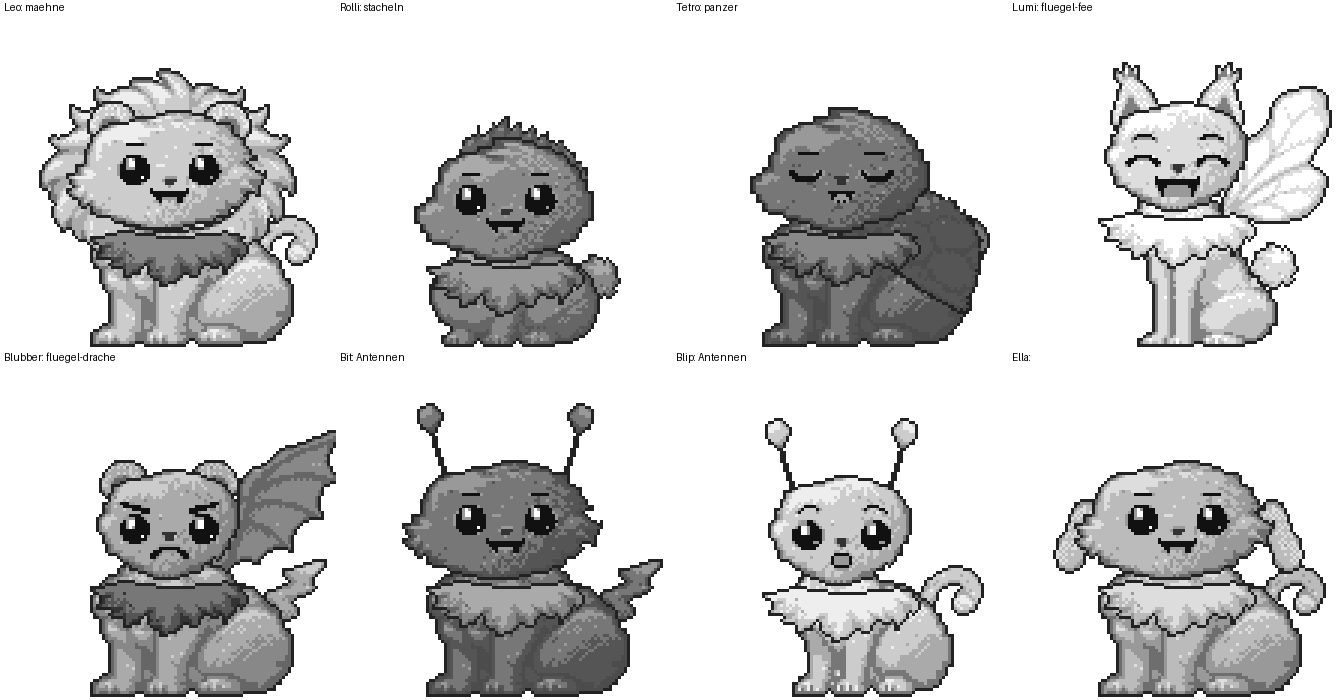
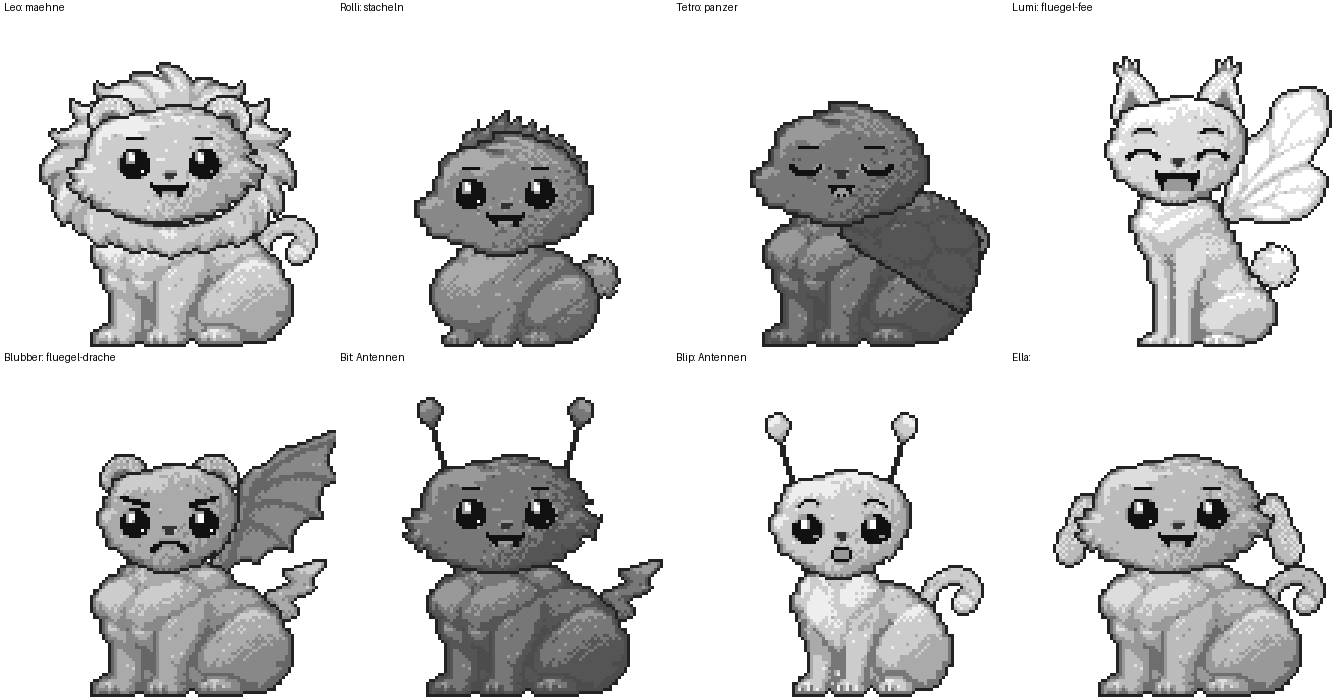
Bausatz: Halskrause komplett entfernt, Kopf sitzt direkt am Koerperhals
Claude-Session: https://claude.ai/code/session_01X43J6dzQtUUHUsjwp3UbdM

diff --git a/entwuerfe/bausatz-test/basis3.py b/entwuerfe/bausatz-test/basis3.py
@@ -1,5 +1,5 @@
 #!/usr/bin/env python3
-"""Setzt die 3/4-Basis (Körper, Kopf, Halskrause + Ohren, Schwanz, Gesicht) auf einer 112 x 112 Leinwand zusammen.
+"""Setzt die 3/4-Basis (Körper, Kopf + Ohren, Schwanz, Gesicht) auf einer 112 x 112 Leinwand zusammen.
 Rollen: 34 Umriss, 119 innen, 170 Schatten, 204 Fell, 238 Licht, 255 Hintergrund. Fellton verschiebt Fell/Schatten/Licht.
 Aufruf: python3 basis3.py  ->  pruefbogen-basis3.png
 """
@@ -56,7 +56,7 @@ def muster_maske(art):
         return ((x - 66) / 9) ** 2 + ((y - 46) / 8) ** 2 <= 1, -68
     return None, 0
 
-def baue(koerper=3, kopf=1, kruse=2, ohren=None, schwanz=None, gesicht=None, fell=204, kranz=238, muster=None):
+def baue(koerper=3, kopf=1, ohren=None, schwanz=None, gesicht=None, fell=204, muster=None):
     from ki_teile import lade_teil
     c = Leinwand(); r = rollen(fell)
     if schwanz:
@@ -74,7 +74,6 @@ def baue(koerper=3, kopf=1, kruse=2, ohren=None, schwanz=None, gesicht=None, fel
         m, d = muster_maske(muster)
         ok = m & c.a & (c.g >= 85) & (c.g < 250)
         c.g[ok] = np.clip(np.round((c.g[ok] + d) / 17) * 17, 0, 255)
-    c.teil(lade('kruse', 'flauschig', kruse), (28, 2), L.KRUSE_ZIEL, {34: 34, 238: kranz, 204: kranz - 34, 170: kranz - 68})
     if gesicht:
         t = lade_teil('gesicht', gesicht)
         if t is not None:
@@ -84,10 +83,10 @@ def baue(koerper=3, kopf=1, kruse=2, ohren=None, schwanz=None, gesicht=None, fel
 
 if __name__ == '__main__':
     z = 3
-    kombis = [(k, h, 2) for k in (1, 2, 3) for h in (1, 2, 3)]
+    kombis = [(k, h) for k in (1, 2, 3) for h in (1, 2, 3)]
     out = Image.new('RGB', (3 * W * z, 3 * (H * z + 14)), 'white'); d = ImageDraw.Draw(out)
-    for i, (k, h, kr) in enumerate(kombis):
-        c = baue(k, h, kr, ohren='spitz', schwanz='buschig', gesicht='freundlich')
+    for i, (k, h) in enumerate(kombis):
+        c = baue(k, h, ohren='spitz', schwanz='buschig', gesicht='freundlich')
         x, y = (i % 3) * W * z, (i // 3) * (H * z + 14)
         d.text((x + 4, y + 1), f'Körper {k}, Kopf {h}', fill='black'); out.paste(c.bild(255, z), (x, y + 14))
     out.save(HIER / 'pruefbogen-basis3.png'); print(out.size)
@@ -97,10 +96,9 @@ def bogen_varianten():
     v = [('spitz', 'buschig', 204, 'freundlich'), ('rund', 'puschel', 170, 'lachend'), ('lang', 'duenn', 238, 'ueberrascht'),
          ('haengend', 'puschel', 187, 'traurig'), ('buschel', 'blitz', 221, 'wuetend'), ('spitz', 'duenn', 136, 'muede'),
          ('rund', 'buschig', 255, 'freundlich'), ('lang', 'blitz', 153, 'lachend')]
-    kr = [238, 238, 238, 238, 255, 238, 255, 221]
     out = Image.new('RGB', (4 * W * z, 2 * (H * z + 14)), 'white'); d = ImageDraw.Draw(out)
     for i, (o, s, f, g) in enumerate(v):
-        c = baue(2, 2, 2, ohren=o, schwanz=s, gesicht=g, fell=f, kranz=kr[i])
+        c = baue(2, 2, ohren=o, schwanz=s, gesicht=g, fell=f)
         x, y = (i % 4) * W * z, (i // 4) * (H * z + 14)
         d.text((x + 4, y + 1), f'Ohr {o}, Schwanz {s}, Fell {f}', fill='black'); out.paste(c.bild(255, z), (x, y + 14))
     out.save(HIER / 'pruefbogen-basis3-varianten.png'); print(out.size)

diff --git a/entwuerfe/bausatz-test/formen.py b/entwuerfe/bausatz-test/formen.py
@@ -10,11 +10,9 @@ from basis3 import Leinwand, rollen, muster_maske, W, H, HIER, TEILE, Z
 from ki_teile import lade_teil
 
 BODEN = 110
-KOPF_UEBER_STANDARD = -7     # Kopf-Hals liegt so viele Pixel ÜBER dem Körper-Hals (negativ = darunter)
-KRUSE_TIEFER_STANDARD = 3   # Halskrause sitzt so viele Pixel unter dem Kopf-Hals: der Kopf sitzt am Hals, nicht auf der Krause
+KOPF_UEBER_STANDARD = -5     # Kopf-Hals liegt so viele Pixel ÜBER dem Körper-Hals (negativ = darunter)
 PANZER_WINKEL = 30       # Grad, nach rechts unten gekippt
 PANZER_VERSATZ = (-14, 8)  # Verschiebung gegenüber dem Rückenansatz
-KRUSE_TIEFER = {}
 KOPF_TIEFER = {}   # Platz für kopfspezifische Absenkung (der spitze Kopf wurde am 27.11. entfernt)
 
 def datei(art, form, bevorzugt=None):
@@ -25,12 +23,12 @@ def datei(art, form, bevorzugt=None):
 
 def raster(p): return np.array(Image.open(p).convert('RGB'))[::Z, ::Z, 0]
 
-def baue_form(koerper='sitzend', kopf='3-4', kruse=2, ohren='spitz', schwanz='buschig', gesicht='freundlich',
-              fell=204, kranz=238, muster=None, kopf_ueber=None, merkmale=(), kruse_tiefer=None, kruse_hinten=True):
+def baue_form(koerper='sitzend', kopf='3-4', ohren='spitz', schwanz='buschig', gesicht='freundlich',
+              fell=204, muster=None, kopf_ueber=None, merkmale=()):
     kf, hf = L.KOERPER_FORMEN[koerper], L.KOPF_FORMEN[kopf]
     khx, khy = hf['hals']
     if kopf_ueber is None:
-        kopf_ueber = KOPF_UEBER_STANDARD - KOPF_TIEFER.get(kopf, 0)   # negativ: Kopf sitzt im Körperhals, Kinn berührt die Krause
+        kopf_ueber = KOPF_UEBER_STANDARD - KOPF_TIEFER.get(kopf, 0)   # negativ: Kopf sitzt im Körperhals
     gw, gh = kf['groesse']; hx, hy = kf['hals']
     zx, zy = 56, BODEN - (gh - 1) + hy                  # Körper-Hals auf der Leinwand
     kx, ky = 56, zy - kopf_ueber                         # Kopf-Hals
@@ -108,16 +106,11 @@ def baue_form(koerper='sitzend', kopf='3-4', kruse=2, ohren='spitz', schwanz='bu
                 ol = (hf['ohr_l'][0] - khx, hf['ohr_l'][1] - khy); orr = (hf['ohr_r'][0] - khx, hf['ohr_r'][1] - khy)
             c.teil(t[0], t[1], (kx + ol[0], ky + ol[1]), r)
             c.teil(t[0], t[1], (W - 1 - (kx + orr[0]), ky + orr[1]), r, spiegeln=True)
-    if kruse_tiefer is None: kruse_tiefer = KRUSE_TIEFER.get(kopf, KRUSE_TIEFER_STANDARD)
-    def zeichne_kruse():
-        c.teil(raster(TEILE / f'kruse-flauschig-{kruse}.png'), (28, 2), (kx, ky + kruse_tiefer), {34: 34, 238: kranz, 204: kranz - 34, 170: kranz - 68})
-    if kruse_hinten: zeichne_kruse()                                                # Krause hinter dem Kinn: der Kopf sitzt am Hals
     c.teil(raster(datei('kopf', kopf)), (khx, khy), (kx, ky), r)
     if muster:
         m, d = muster_maske(muster)
         ok = m & c.a & (c.g >= 85) & (c.g < 250)
         c.g[ok] = np.clip(np.round((c.g[ok] + d) / 17) * 17, 0, 255)
-    if not kruse_hinten: zeichne_kruse()
     if gesicht:
         t = lade_teil('gesicht', gesicht)
         if t is not None:

diff --git a/entwuerfe/bausatz-test/basis3_layout.py b/entwuerfe/bausatz-test/basis3_layout.py
@@ -1,14 +1,13 @@
 """Anordnung der 3/4-Basis auf der Leinwand 112 x 112 (alle Angaben in Rasterpixeln).
 
 Jedes Teil hat in seiner Schablone rote/blaue/grüne Ansatzpunkte. Hier steht, wohin sie auf der Leinwand kommen.
-Reihenfolge von hinten nach vorn: Schwanz, Körper, Kopf (Ohren hinter dem Kopf), Halskrause, Gesicht.
+Reihenfolge von hinten nach vorn: Schwanz, Körper, Kopf (Ohren hinter dem Kopf), Gesicht.
 """
 LEINWAND = (112, 112)
 
 # Teil: (Größe, Ansatzpunkte im Teil)  ->  Ziel auf der Leinwand
 KOERPER_ZIEL = (56, 66)        # Hals des Körpers auf der Leinwand (Körper reicht von x 16 bis 95, y 63 bis 110)
-KOPF_ZIEL = (56, 62)           # Hals des Kopfes (Kopf reicht von x 26 bis 85, y 22 bis 65)
-KRUSE_ZIEL = (56, 62)          # Oberkante Halskrause sitzt am Hals
+KOPF_ZIEL = (56, 71)           # Hals des Kopfes (Kopf reicht von x 26 bis 85, y 22 bis 65)
 SCHWANZ_ZIEL = (82, 89)        # Schwanz-Ansatz des Körpers (66, 26) -> Leinwand (82, 89); Schwanzteil-Ansatz (3, 29)
 OHR_LINKS_ZIEL = (39, 30)      # Kopf-Ansatz (13, 8) -> Leinwand
 OHR_RECHTS_ZIEL = (73, 30)     # Kopf-Ansatz (47, 8) -> Leinwand
@@ -26,11 +25,11 @@ KOPF_SEITE_RECHTS = (26, -24)
 KOPF_GESICHT = (0, -16)
 POSEN = {
     #  Teilname          Größe     Hals     Schwanz   Hals-Ziel auf der Leinwand  Kopf-Hals-Ziel
-    'sitzend':    dict(groesse=(80, 48), hals=(40, 3),  schwanz=(66, 26), hals_ziel=(56, 66), kopf_ziel=(56, 62)),
-    'laufen':     dict(groesse=(88, 48), hals=(22, 8),  schwanz=(76, 14), hals_ziel=(30, 70), kopf_ziel=(30, 66)),
-    'huepfen':    dict(groesse=(80, 52), hals=(30, 8),  schwanz=(68, 18), hals_ziel=(40, 62), kopf_ziel=(40, 56)),
-    'geduckt':    dict(groesse=(88, 44), hals=(14, 22), schwanz=(78, 8),  hals_ziel=(30, 76), kopf_ziel=(30, 72), schwanz_dx=-10),
-    'eingerollt': dict(groesse=(88, 40), hals=(24, 10), schwanz=(66, 18), hals_ziel=(36, 78), kopf_ziel=(36, 74)),
+    'sitzend':    dict(groesse=(80, 48), hals=(40, 3),  schwanz=(66, 26), hals_ziel=(56, 66), kopf_ziel=(56, 71)),
+    'laufen':     dict(groesse=(88, 48), hals=(22, 8),  schwanz=(76, 14), hals_ziel=(30, 70), kopf_ziel=(30, 75)),
+    'huepfen':    dict(groesse=(80, 52), hals=(30, 8),  schwanz=(68, 18), hals_ziel=(40, 62), kopf_ziel=(40, 65)),
+    'geduckt':    dict(groesse=(88, 44), hals=(14, 22), schwanz=(78, 8),  hals_ziel=(30, 76), kopf_ziel=(30, 81), schwanz_dx=-10),
+    'eingerollt': dict(groesse=(88, 40), hals=(24, 10), schwanz=(66, 18), hals_ziel=(36, 78), kopf_ziel=(36, 83)),
 }
 
 # Formen (sitzend). Platzierung: Boden bei y = 110, Körper-Hals mittig bei x = 56.

diff --git a/entwuerfe/bausatz-test/posen3.py b/entwuerfe/bausatz-test/posen3.py
@@ -18,7 +18,7 @@ def koerper_datei(pose, nr=None):
     if pose == 'sitzend': return TEILE / 'koerper-sitzend-2.png'
     return dateien[0] if dateien else None
 
-def baue_pose(pose='sitzend', kopf=2, kruse=2, ohren='spitz', schwanz='buschig', gesicht='freundlich', fell=204, kranz=238, muster=None, nr=None):
+def baue_pose(pose='sitzend', kopf=2, ohren='spitz', schwanz='buschig', gesicht='freundlich', fell=204, muster=None, nr=None):
     p = L.POSEN[pose]
     c = Leinwand(); r = rollen(fell)
     hx, hy = p['hals']; zx, zy = p['hals_ziel']
@@ -42,7 +42,6 @@ def baue_pose(pose='sitzend', kopf=2, kruse=2, ohren='spitz', schwanz='buschig',
         m, d = __import__('basis3').muster_maske(muster)
         ok = m & c.a & (c.g >= 85) & (c.g < 250)
         c.g[ok] = np.clip(np.round((c.g[ok] + d) / 17) * 17, 0, 255)
-    c.teil(lade('kruse', 'flauschig', kruse), (28, 2), (kx, ky), {34: 34, 238: kranz, 204: kranz - 34, 170: kranz - 68})
     if gesicht:
         t = lade_teil('gesicht', gesicht)
         if t is not None:
@@ -56,7 +55,7 @@ if __name__ == '__main__':
     out = Image.new('RGB', (len(POSEN) * W * z, len(FIGUREN) * (H * z + 14)), 'white'); d = ImageDraw.Draw(out)
     for j, (o, s, f, kz, m) in enumerate(FIGUREN):
         for i, (pose, g) in enumerate(POSEN):
-            c = baue_pose(pose, ohren=o, schwanz=s, gesicht=g, fell=f, kranz=kz, muster=m)
+            c = baue_pose(pose, ohren=o, schwanz=s, gesicht=g, fell=f, muster=m)
             if pose == 'eingerollt': emotionen3.zzz(c)
             x, y = i * W * z, j * (H * z + 14)
             d.text((x + 4, y + 1), pose, fill='black'); out.paste(c.bild(255, z), (x, y + 14))

diff --git a/entwuerfe/bausatz-test/aufstellung.py b/entwuerfe/bausatz-test/aufstellung.py
@@ -4,7 +4,7 @@ from PIL import Image, ImageDraw
 from basis3 import W, H, HIER
 from formen import baue_form
 
-# name: (körper, kopf, krause, ohren, schwanz, gesicht, fell, kranz, muster, fehlt)
+# name: (körper, kopf, [unbenutzt], ohren, schwanz, gesicht, fell, [unbenutzt], muster, fehlt)  (Halskrause entfernt)
 F = {
  'Evi':      (2, 2, 2, 'spitz', 'buschig', 'freundlich', 187, 238, None, ''),
  'Lotti':    (1, 1, 1, 'spitz', 'puschel', 'freundlich', 170, 255, 'tupfen', 'Rehohren, Stummelschwanz'),
@@ -42,7 +42,7 @@ if __name__ == '__main__':
     out = Image.new('RGB', (cols * W * z, rows * (H * z + 30)), 'white'); d = ImageDraw.Draw(out)
     for i, (n, (k, h, kr, o, s, g, f, kz, m, fehlt)) in enumerate(F.items()):
         kf, hf = FORMEN[n]
-        c = baue_form(kf, hf, kr, ohren=o, schwanz=s, gesicht=g, fell=f, kranz=kz, muster=m)
+        c = baue_form(kf, hf, ohren=o, schwanz=s, gesicht=g, fell=f, muster=m)
         x, y = (i % cols) * W * z, (i // cols) * (H * z + 30)
         d.text((x + 4, y + 1), f'{n}  ({kf} / {hf})', fill='black')
         if fehlt: d.text((x + 4, y + 13), 'fehlt: ' + fehlt, fill=(160, 0, 0))

diff --git a/entwuerfe/bausatz-test/schablonen_basis.py b/entwuerfe/bausatz-test/schablonen_basis.py
@@ -1,5 +1,5 @@
 #!/usr/bin/env python3
-"""Schablonen für Körper, Kopf und Halskrause (3/4-Basis, Leinwand 112 x 112)."""
+"""Schablonen für Körper und Kopf (3/4-Basis, Leinwand 112 x 112)."""
 from PIL import Image, ImageDraw
 import os
 hier = os.path.dirname(os.path.abspath(__file__))
@@ -31,7 +31,6 @@ def schablone(name, gw, gh, anker, text, fuehrung=None):
 ROT, BLAU, GRUEN = (220, 0, 0), (0, 90, 220), (0, 150, 60)
 schablone('schablone-koerper.png', 80, 48, [((40, 3), 'Hals', ROT), ((66, 26), 'Schwanz', BLAU)], 'Koerper 80x48')
 schablone('schablone-kopf.png', 60, 44, [((30, 40), 'Hals', ROT), ((13, 8), 'Ohr links', BLAU), ((47, 8), 'Ohr rechts', BLAU), ((30, 24), 'Gesicht', GRUEN)], 'Kopf 60x44')
-schablone('schablone-kruse.png', 56, 20, [((28, 2), 'Hals', ROT)], 'Halskrause 56x20')
 # Pose-Körper (27.11.): Größe (Raster), Hals-Ansatz, Schwanz-Ansatz
 POSEN_KOERPER = {
     'laufen':    ((88, 48), (22, 8),  (76, 14)),

diff --git a/entwuerfe/bausatz-test/artmerkmale.py b/entwuerfe/bausatz-test/artmerkmale.py
@@ -18,7 +18,7 @@ if __name__ == '__main__':
     z, cols = 3, 4
     out = Image.new('RGB', (cols * W * z, 2 * (H * z + 14)), 'white'); d = ImageDraw.Draw(out)
     for i, (n, k, h, o, s, g, f, kz, m) in enumerate(F):
-        c = baue_form(k, h, 2, ohren=o, schwanz=s, gesicht=g, fell=f, kranz=kz, merkmale=m)
+        c = baue_form(k, h, ohren=o, schwanz=s, gesicht=g, fell=f, merkmale=m)
         x, y = (i % cols) * W * z, (i // cols) * (H * z + 14)
         d.text((x + 4, y + 1), f'{n}: {", ".join(m) or ("Antennen" if o == "antenne" else "")}', fill='black')
         out.paste(c.bild(255, z), (x, y + 14))

diff --git a/entwuerfe/bausatz-test/emotionen3.py b/entwuerfe/bausatz-test/emotionen3.py
@@ -50,7 +50,7 @@ if __name__ == '__main__':
     rows = (len(EMOTIONEN) + cols - 1) // cols
     out = Image.new('RGB', (cols * W * z, rows * (H * z + 16)), 'white'); d = ImageDraw.Draw(out)
     for k, (n, g, eff, hin) in enumerate(EMOTIONEN):
-        c = baue(2, 2, 2, ohren='spitz', schwanz='buschig', gesicht=g)
+        c = baue(2, 2, ohren='spitz', schwanz='buschig', gesicht=g)
         for e in eff: e(c)
         x, y = (k % cols) * W * z, (k // cols) * (H * z + 16)
         d.text((x + 4, y + 2), n + (f'  [{hin}]' if hin else ''), fill='black')

diff --git a/entwuerfe/bausatz-test/ki_teile.py b/entwuerfe/bausatz-test/ki_teile.py
@@ -32,7 +32,6 @@ SCHABLONEN = {
     'merkmal-fluegel-fee': ((56, 56), (6, 50)),
     'merkmal-fluegel-drache': ((56, 56), (6, 50)),
     'kopf': ((60, 44), (30, 40)),
-    'kruse': ((56, 20), (28, 2)),
 }
 
 

diff --git a/entwuerfe/bausatz-test/README.md b/entwuerfe/bausatz-test/README.md
@@ -45,3 +45,6 @@ Teile in `ki/teile/`: `merkmal-maehne`, `merkmal-stacheln`, `merkmal-panzer`, `m
 
 ## Halskrause und Panzer angepasst (27. November 2026)
 Die Halskrause liegt jetzt **hinter dem Kopf** und 3 Pixel tiefer (`KRUSE_TIEFER_STANDARD` in `formen.py`); der Kopf sitzt 7 Pixel **unter** dem Körperhals (`KOPF_UEBER_STANDARD = -7`), das Kinn berührt die Krause. Ein sichtbarer Halsstumpf oder ein schwebender Kopf ist damit weg. Der Panzer ist um 30° nach rechts unten gekippt (`PANZER_WINKEL`, `PANZER_VERSATZ`). Der Rüssel wurde entfernt.
+
+## Halskrause entfernt (27. November 2026)
+Die Halskrause ist komplett raus (`ki/teile/kruse-flauschig-*`, Schablone und alle Einträge). Der Kopf sitzt direkt am Körperhals, 5 Pixel unter dem Körper-Hals (`KOPF_UEBER_STANDARD = -5` in `formen.py`); das Kinn liegt über den Schultern. Die Parameter `kruse`, `kranz`, `kruse_tiefer` und `kruse_hinten` gibt es nicht mehr. Der Kranzton wird damit nicht mehr verwendet. Die Pose- und Gefühle-Bögen sind mit angepasst.

diff --git a/entwuerfe/bausatz-test/PROMPT-ki-basis.md b/entwuerfe/bausatz-test/PROMPT-ki-basis.md
@@ -1,4 +1,6 @@
-# Prompt für die Bild-KI: Basis im 3/4-Blick (Körper, Kopf, Halskrause)
+# Prompt für die Bild-KI: Basis im 3/4-Blick (Körper, Kopf)
+
+> **Stand 27.11.:** Die Halskrause wurde verworfen und entfernt (Datei, Schablone, Zusammensetzung). Die Zeilen zur Halskrause unten sind nur noch Historie.
 
 Stand 27. November 2026. Ersetzt die runde Basis aus `bausatz2.py`. Gleiche Methode wie [PROMPT-ki-teile.md](PROMPT-ki-teile.md): **ein Teil allein** auf der Schablone, feste Grauwert-Rollen, danach setzt das Skript zusammen.
 
